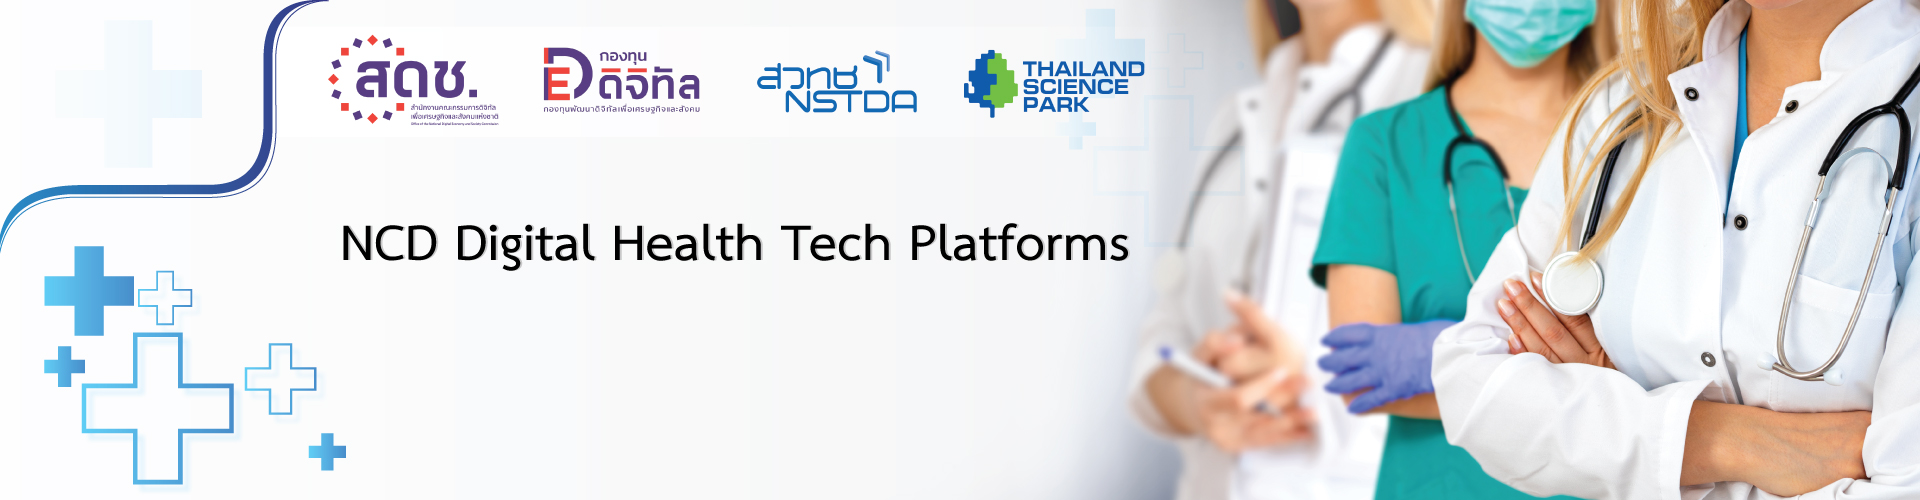
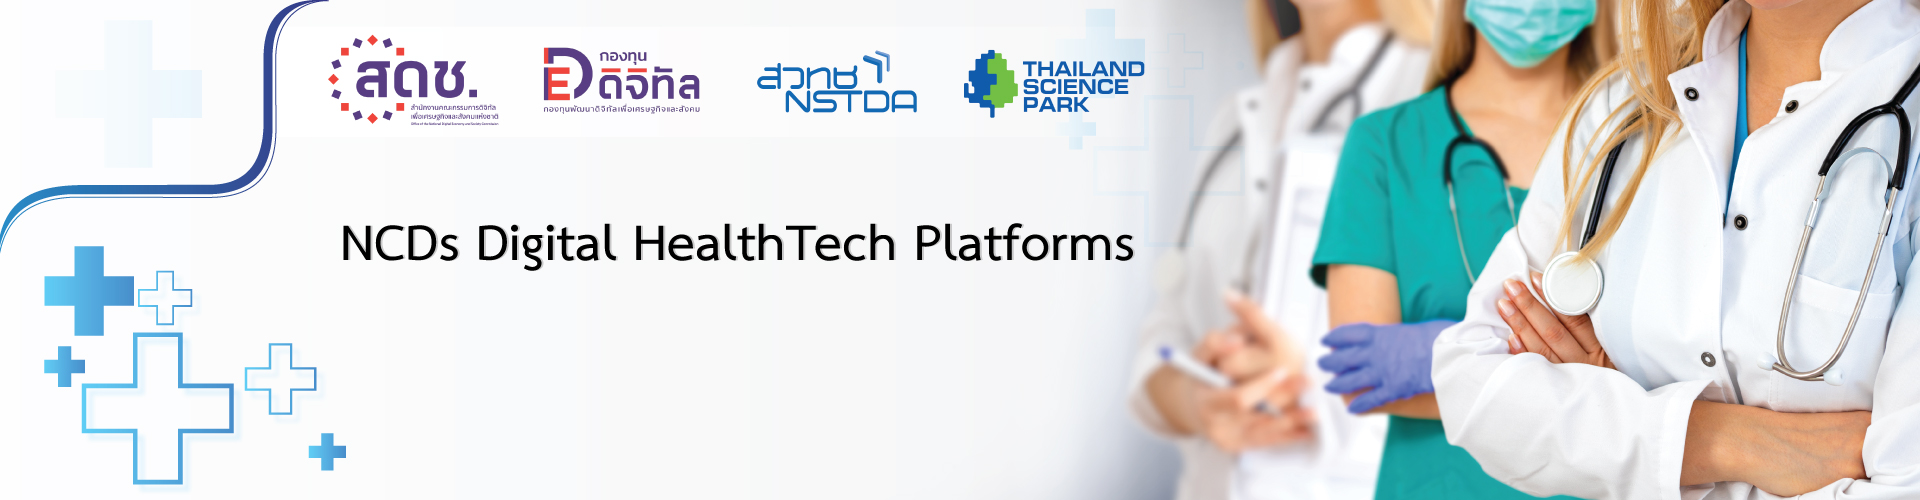
Elearning

Changed region(s): [[0.2188, 0.45, 0.5938, 0.54]]

diff --git a/src/template/Footer.js b/src/template/Footer.js
@@ -34,11 +34,11 @@ export default class Footer extends Component {
                     <Col xs={11} md={6} xl={6} id="col-footer2">
                         <Col xs={24} md={24} xl={24} id="header-footer">สิทธิประโยชน์ที่ท่านจะได้รับ</Col>
                         <Row>
-                            <Col xs={4} md={2} xl={2} id="descript-footer2"><BsFillPeopleFill style={{fontSize: "18px", color: "#FF7C00", marginRight: "3%"}}/></Col>
+                            <Col  xs={4} md={3} xl={2} id="descript-footer2"><BsFillPeopleFill style={{fontSize: "18px", color: "#FF7C00", marginRight: "3%"}}/></Col>
                             <Col xs={20} md={21} xl={21} id="descript-footer2">เข้าร่วมอบรม E-learning for Health Technology 5 หลักสูตร</Col>
                         </Row>
                         <Row>
-                            <Col xs={4} md={2} xl={2} id="descript-footer2"><BsFillPeopleFill style={{fontSize: "18px", color: "#FF7C00", marginRight: "3%"}}/></Col>
+                            <Col  xs={4} md={3} xl={2} id="descript-footer2"><BsFillPeopleFill style={{fontSize: "18px", color: "#FF7C00", marginRight: "3%"}}/></Col>
                             <Col xs={20} md={21} xl={21} id="descript-footer2">Gap Analysis เตรียมความพร้อมสู่การออกเชิงพาณิชย์</Col>
                         </Row>
                         {/* <Col xs={24} md={24} xl={24} id="descript-footer2"><BsFillPeopleFill style={{fontSize: "18px", color: "#FF7C00", marginRight: "3%"}}/>ผู้ผ่านการคัดเลือกรอบสุดท้าย ได้เข้าร่วมกิจกรรม Digital Health-Tech Coaching & Acceleration Program พร้อมรับเงินทุนสนับสนุน 280,000 บาท และขยายผลจริงในโรงพยาบาล</Col> */}
@@ -47,36 +47,36 @@ export default class Footer extends Component {
                     <Col xs={13} md={6} xl={7} id="col-footer3">
                         <Col xs={24} md={24} xl={24} id="header-footer1">ติดตามและข้อมูลเพิ่มเติม</Col>
                         <Row>
-                            <Col xs={4} md={2} xl={2} id="descript-footer3"><FaFacebookF style={{fontSize: "18px", color: "#FF7C00", marginRight: "3%"}}/></Col>
+                            <Col xs={4} md={3} xl={2} id="descript-footer3"><FaFacebookF style={{fontSize: "18px", color: "#FF7C00", marginRight: "3%"}}/></Col>
                             <Col xs={20} md={21} xl={21} id="descript-footer3"><span onClick={() => { window.open("https://web.facebook.com/THAILANDSCIENCEPARK", "_blank"); }} style={{cursor: "pointer"}}>อุทยานวิทยาศาสตร์ประเทศไทย</span></Col>
                         </Row>
                         <Row>
-                            <Col xs={4} md={2} xl={2} id="descript-footer3"></Col>
+                            <Col xs={4} md={3} xl={2} id="descript-footer3"></Col>
                             <Col xs={20} md={21} xl={21} id="descript-footer2"><div onClick={() => { window.open("https://web.facebook.com/THAILANDSCIENCEPARK", "_blank"); }} style={{cursor: "pointer"}}>Thailand Science Park -TSP</div></Col>
                         </Row>
                         <Row>
-                            <Col xs={4} md={2} xl={2} id="descript-footer2"><BiMessageRoundedEdit style={{fontSize: "18px", color: "#FF7C00", marginRight: "3%"}}/></Col>
+                            <Col xs={4} md={3} xl={2} id="descript-footer2"><BiMessageRoundedEdit style={{fontSize: "18px", color: "#FF7C00", marginRight: "3%"}}/></Col>
                             <Col xs={20} md={21} xl={21} id="descript-footer2"><span onClick={() => { window.open("https://bit.ly/38AlM86", "_blank"); }} style={{cursor: "pointer"}}>https://bit.ly/38AlM86</span></Col>
+                        </Row>
+                        <Row>
+                            <Col xs={4} md={3} xl={2} id="descript-footer2"><IoIosMailOpen style={{fontSize: "18px", color: "#FF7C00", marginRight: "3%"}}/></Col>
+                            <Col xs={20} md={21} xl={21} id="descript-footer2">ikd@nstda.or.th</Col>
                         </Row>
                         {/* <Col xs={24} md={24} xl={24} id="descript-footer2"><FaTwitter style={{fontSize: "18px", color: "#FF7C00", marginRight: "3%"}}/>Twitter</Col> */}
                     </Col>
                     <Col xs={11} md={6} xl={6} id="col-footer4">
                         <Col xs={24} md={24} xl={24} id="header-footer">ติดต่อสอบถามโครงการ</Col>
                         <Row>
-                            <Col xs={4} md={2} xl={2} id="descript-footer2"><FiPhoneCall style={{fontSize: "18px", color: "#FF7C00", marginRight: "3%"}}/></Col>
+                            <Col  xs={4} md={3} xl={2} id="descript-footer2"><FiPhoneCall style={{fontSize: "18px", color: "#FF7C00", marginRight: "3%"}}/></Col>
                             <Col xs={20} md={21} xl={21} id="descript-footer2">086 373 4271 ( คุณกานต์ธิดาพร )</Col>
                         </Row>
                         <Row>
-                            <Col xs={4} md={2} xl={2} id="descript-footer2"><FiPhoneCall style={{fontSize: "18px", color: "#FF7C00", marginRight: "3%"}}/></Col>
+                            <Col  xs={4} md={3} xl={2} id="descript-footer2"><FiPhoneCall style={{fontSize: "18px", color: "#FF7C00", marginRight: "3%"}}/></Col>
                             <Col xs={20} md={21} xl={21} id="descript-footer2">089 456 2440 ( คุณวัชรี )</Col>
-                        </Row>
-                        <Row>
-                            <Col xs={4} md={2} xl={2} id="descript-footer2"><IoIosMailOpen style={{fontSize: "18px", color: "#FF7C00", marginRight: "3%"}}/></Col>
-                            <Col xs={20} md={21} xl={21} id="descript-footer2">ikd@nstda.or.th</Col>
                         </Row>
                         <Col xs={24} md={24} xl={24} id="header-footer">ติดต่อสอบถามด้านระบบ</Col>
                         <Row>
-                            <Col xs={4} md={2} xl={2} id="descript-footer2"><FiPhoneCall style={{fontSize: "18px", color: "#FF7C00", marginRight: "3%"}}/></Col>
+                            <Col  xs={4} md={3} xl={2} id="descript-footer2"><FiPhoneCall style={{fontSize: "18px", color: "#FF7C00", marginRight: "3%"}}/></Col>
                             <Col xs={20} md={21} xl={21} id="descript-footer2">082 245 2329 ( คุณฐิติพงศ์ )</Col>
                         </Row>
                     </Col>   

diff --git a/src/content/Elearning.js b/src/content/Elearning.js
@@ -21,12 +21,12 @@ export default class Elearning extends Component {
                         <Image src={HomeBanner} fluid></Image>
                     </Col>
                 </Row>
-                <Row>
+                <Row id="row-video-elearning">
                     <Col id="col-elearning">
                         <ReactPlayer
                             url={testV1}
                             className='react-player'
-                            width='70%'
+                            width='60%'
                             height='max-content'
                             controls={true}
                             playsinline={true}
@@ -37,7 +37,7 @@ export default class Elearning extends Component {
                 </Row>
                 <Col xs={24} md={24} xl={24} style={{paddingBottom: "3%"}}>
                     <Row id="descrip-Elearning">
-                    อุตสาหกรรมการแพทย์ ทั้งเครื่องมือแพทย์ เทคโนโลยีดิจิตัลทางการแพทย์มีความสำคัญต่อชีวิตและสุขภาพของประชนในประเทศ และได้รับความสำคัญจากรัฐบาลตลอดมาผ่านนโยบายสำคัญต่างๆ เช่น Medical Hub, BCG   รวมทั้งในโลกที่เปลี่ยนไปเราได้เห็นความสำคัญของเทคโนโลยีทางด้านดิจิตัลที่มีบทบาททางด้านการแพทย์และสาธารณสุขมากขึ้นโดยเฉพาะสำหรับกลุ่มโรค NCD  จะเห็นได้ว่า WHO เริ่มมีนโยบายและแนวทางในการนำนวัตกรรมดิจิตัลเทคโนโลยีต่างๆ มาประยุกต์ใช้เพื่อช่วยในการดูแล รักษา และป้องกันโรคในกลุ่ม NCD ซึ่งสำหรับผู้ผลิตนวัตกรรม และผู้ประกอบการที่มีเทคโนโลยีและนวัตกรรมเหล่านี้นั้นจะต้องคำนึงถึงการพัฒนาผลิตภัณฑ์และบริการเหล่านี้เพื่อให้สามารถนำมาใช้ในการแพทย์ได้อย่างปลอดภัย โดยจะต้องผ่านการพัฒนาให้ได้มาตรฐานที่ยอมรับกันในระดับสากล ซึ่งเป็นที่มาของ E-learning หลักสูตรนี้
+                        <Row style={{display: "block"}}><span id="headElearning">อุตสาหกรรมการแพทย์</span>  ทั้งเครื่องมือแพทย์ เทคโนโลยีดิจิตัลทางการแพทย์มีความสำคัญต่อชีวิตและสุขภาพของประชนในประเทศ และได้รับความสำคัญจากรัฐบาลตลอดมาผ่านนโยบายสำคัญต่างๆ เช่น Medical Hub, BCG   รวมทั้งในโลกที่เปลี่ยนไปเราได้เห็นความสำคัญของเทคโนโลยีทางด้านดิจิตัลที่มีบทบาททางด้านการแพทย์และสาธารณสุขมากขึ้นโดยเฉพาะสำหรับกลุ่มโรค NCDs  จะเห็นได้ว่า WHO เริ่มมีนโยบายและแนวทางในการนำนวัตกรรมดิจิตัลเทคโนโลยีต่างๆ มาประยุกต์ใช้เพื่อช่วยในการดูแล รักษา และป้องกันโรคในกลุ่ม NCDs ซึ่งสำหรับผู้ผลิตนวัตกรรม และผู้ประกอบการที่มีเทคโนโลยีและนวัตกรรมเหล่านี้นั้นจะต้องคำนึงถึงการพัฒนาผลิตภัณฑ์และบริการเหล่านี้เพื่อให้สามารถนำมาใช้ในการแพทย์ได้อย่างปลอดภัย โดยจะต้องผ่านการพัฒนาให้ได้มาตรฐานที่ยอมรับกันในระดับสากล ซึ่งเป็นที่มาของ E-learning หลักสูตรนี้</Row>
                     </Row>
                     <Row id="descrip-Elearning">E-learning หลักสูตรนี้ จัดทำขึ้นเพื่อสร้างความรู้ความเข้าใจ แก่ผู้ประกอบการเครื่องมือแพทย์ และ Digital Health Tech เพื่อประกอบการพัฒนานวัตกรรมทางการแพทย์ ตลอด product life cycle ตั้งแต่กระบวนการการออกแบบและพัฒนาการผลิต การขึ้นทะเบียน การจัดจำหน่าย และการติดตามหลังการขาย </Row>
                     <Row id="descrip-Elearning">หลักสูตรชุดนี้ประกอบด้วย 5 หลักสูตร ประกอบด้วย</Row>

diff --git a/src/content/Home.js b/src/content/Home.js
@@ -60,15 +60,15 @@ export default class Home extends Component {
                 
                 <Row id="row-coverhome">
                     <Col xs={24} md={12} xl={12}>
-                        <Row id="row-img-date">
-                        <Col xs={24} md={24} xl={24}>
+                        <Row>
+                        <Col xs={24} md={24} xl={24} id="row-img-date">
                             <Image src={Home2} id="img-row2" style={{width: "70%"}} fluid></Image>
                         </Col>
                         </Row>
                     </Col>
                     <Col xs={24} md={12} xl={12}>
-                        <Row id="row-img-date">
-                        <Col xs={24} md={24} xl={24}>
+                        <Row>
+                        <Col xs={24} md={24} xl={24} id="row-img-date">
                             <Image src={Home1} id="img-row2" style={{width: "70%"}} fluid></Image>
                         </Col>
                     </Row>

diff --git a/src/css/Elearning.css b/src/css/Elearning.css
@@ -5,8 +5,19 @@
     margin-bottom: 2%;
 }
 
+#row-video-elearning{
+    margin-top: 3%;
+}
+
+
+
 /* notebook */
 @media screen and (min-width: 601px) {
+    #headElearning{
+        font-size: 18px;
+        font-weight: bold;
+        color: #6F6AFA;
+    }
     #descrip-Elearning{
         padding-right: 5%;
         padding-left: 4%;
@@ -57,6 +68,11 @@
 
 /* telephone */
 @media screen and (max-width: 684px){
+    #headElearning{
+        font-size: 12px;
+        font-weight: bold;
+        color: #6F6AFA;
+    }
     #descrip-Elearning{
         padding-right: 8%;
         padding-left: 8%;

diff --git a/src/css/Home.css b/src/css/Home.css
@@ -99,7 +99,7 @@
     }
     #descrip-Home1{
         padding-right: 5%;
-        padding-left: 4%;
+        padding-left: 2%;
         text-indent: 1cm;
         text-align: justify;
         margin-top: 2%;
@@ -219,6 +219,6 @@
 }
 
 #row-img-date{
-    display: inherit;
+    display: flex;
     justify-content: center;
 }
